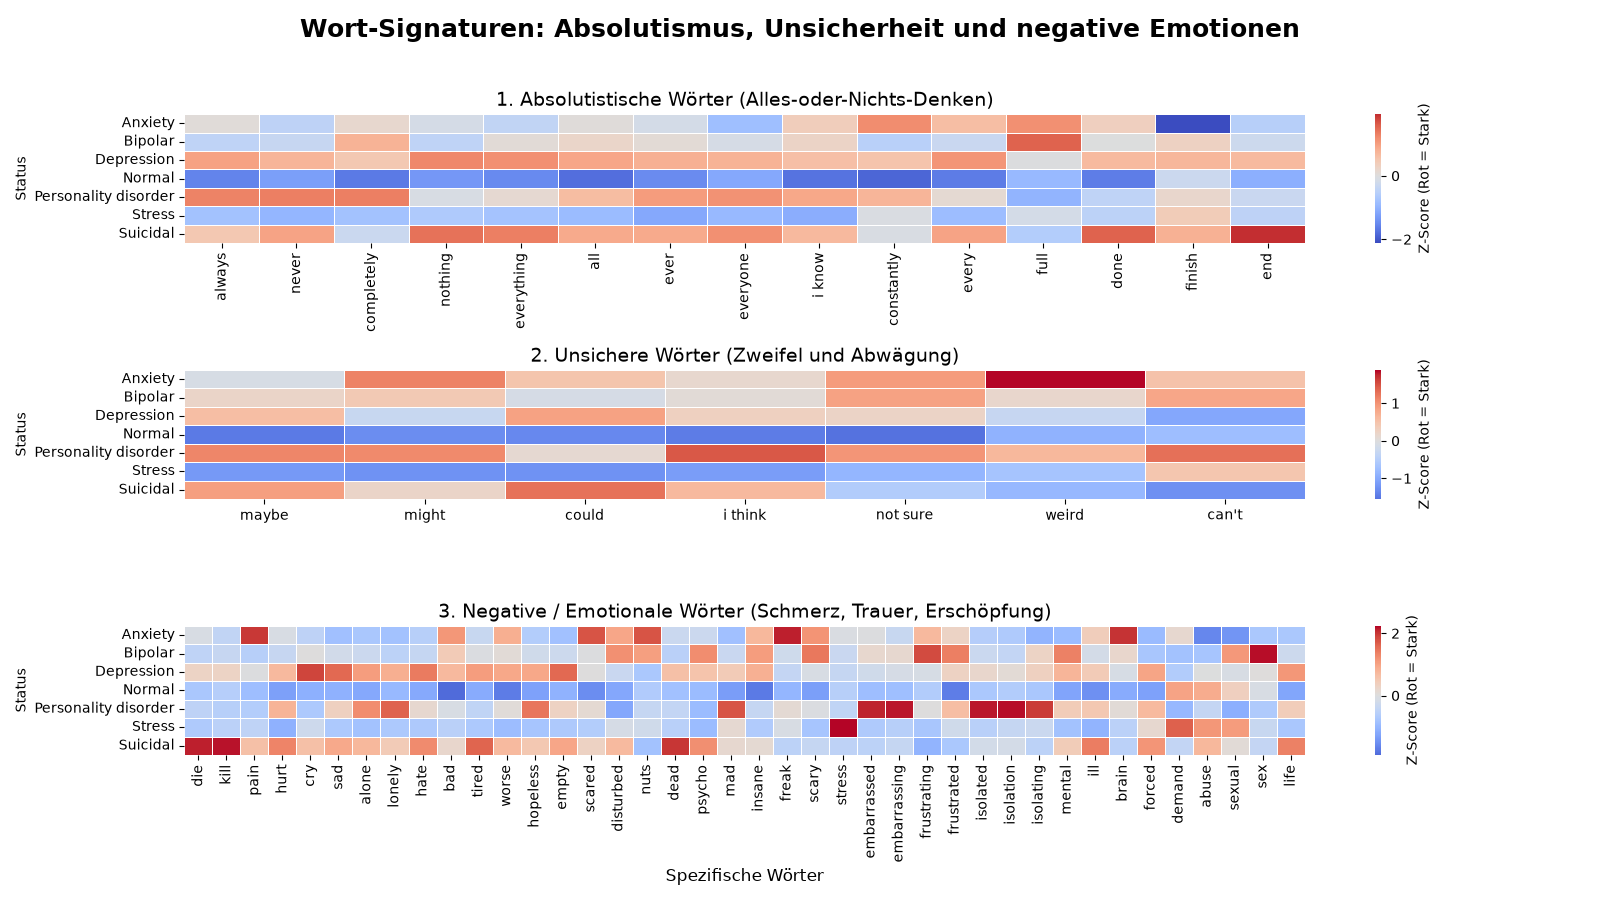
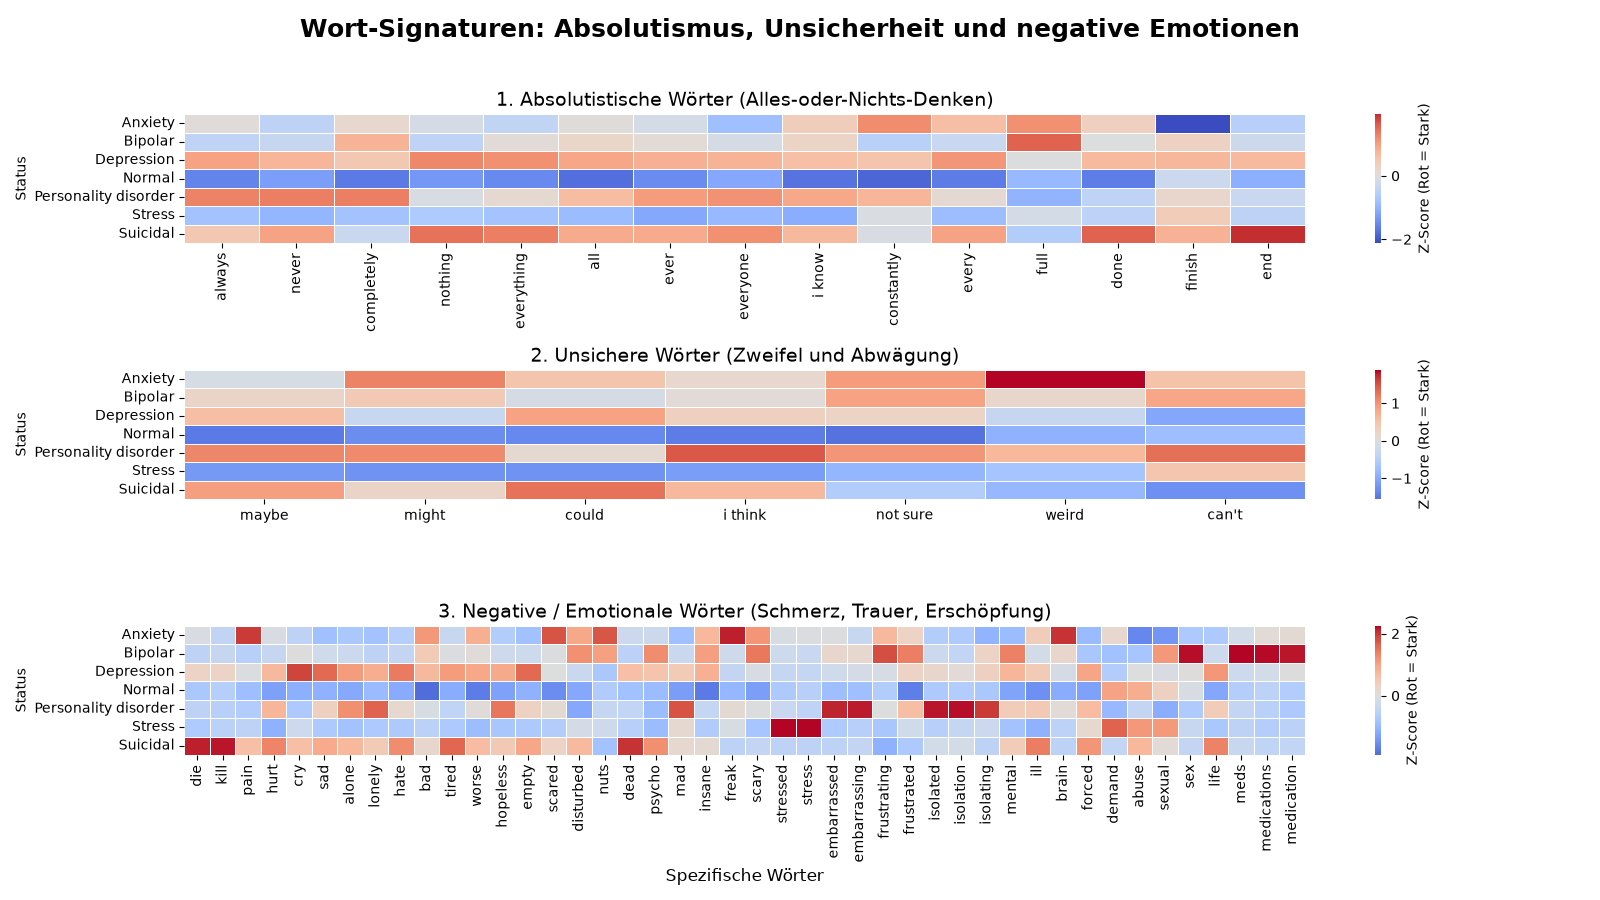
Add word frequency data for mental health-related terms in JSON format; added sleepwords as feature and improved code and old features

Changed region(s): [[0.125, 0.6844, 0.8125, 0.9644]]

diff --git a/Klassifikation_Modell_Training.py b/Klassifikation_Modell_Training.py
@@ -1,6 +1,6 @@
 import pandas as pd
 import numpy as np
-from sklearn.model_selection import train_test_split
+#from sklearn.model_selection import train_test_split
 from sklearn.preprocessing import StandardScaler
 from sklearn.linear_model import LogisticRegression
 from sklearn.svm import SVC
@@ -84,19 +84,19 @@ print(classification_report(y_test, y_pred_lr))
 # ============================================================
 # MODELL 2: SVM
 # ============================================================
-model_svm = SVC(kernel="rbf", random_state=42)
-model_svm.fit(X_train_combined, y_train)
-y_pred_svm = model_svm.predict(X_test_combined)
+# model_svm = SVC(kernel="rbf", random_state=42)
+# model_svm.fit(X_train_combined, y_train)
+# y_pred_svm = model_svm.predict(X_test_combined)
 
-print("===== SVM =====")
-print(classification_report(y_test, y_pred_svm))
+# print("===== SVM =====")
+# print(classification_report(y_test, y_pred_svm))
 
 # ============================================================
 # MODELL 3: RANDOM FOREST
 # ============================================================
 from sklearn.ensemble import RandomForestClassifier
 
-model_rf = RandomForestClassifier(n_estimators=100, random_state=42)
+model_rf = RandomForestClassifier(n_estimators=100, random_state=42,n_jobs=-1)
 model_rf.fit(X_train_combined, y_train)
 y_pred_rf = model_rf.predict(X_test_combined)
 
@@ -108,7 +108,7 @@ print(classification_report(y_test, y_pred_rf))
 # ============================================================
 status_labels = sorted(df0['status'].unique())
 
-fig, axes = plt.subplots(1, 3, figsize=(20, 6))
+fig, axes = plt.subplots(1, 2, figsize=(20, 6))
 
 sns.heatmap(confusion_matrix(y_test, y_pred_lr, labels=status_labels), annot=True, fmt="d",
             ax=axes[0], cmap="Blues", xticklabels=status_labels, yticklabels=status_labels)
@@ -117,19 +117,19 @@ axes[0].set_xlabel("Vorhergesagt")
 axes[0].set_ylabel("Tatsächlich")
 axes[0].tick_params(axis='x', rotation=45)
 
-sns.heatmap(confusion_matrix(y_test, y_pred_svm, labels=status_labels), annot=True, fmt="d",
+# sns.heatmap(confusion_matrix(y_test, y_pred_svm, labels=status_labels), annot=True, fmt="d",
+#             ax=axes[1], cmap="Blues", xticklabels=status_labels, yticklabels=status_labels)
+# axes[1].set_title("SVM")
+# axes[1].set_xlabel("Vorhergesagt")
+# axes[1].set_ylabel("Tatsächlich")
+# axes[1].tick_params(axis='x', rotation=45)
+
+sns.heatmap(confusion_matrix(y_test, y_pred_rf, labels=status_labels), annot=True, fmt="d",
             ax=axes[1], cmap="Blues", xticklabels=status_labels, yticklabels=status_labels)
-axes[1].set_title("SVM")
+axes[1].set_title("Random Forest")
 axes[1].set_xlabel("Vorhergesagt")
 axes[1].set_ylabel("Tatsächlich")
 axes[1].tick_params(axis='x', rotation=45)
-
-sns.heatmap(confusion_matrix(y_test, y_pred_rf, labels=status_labels), annot=True, fmt="d",
-            ax=axes[2], cmap="Blues", xticklabels=status_labels, yticklabels=status_labels)
-axes[2].set_title("Random Forest")
-axes[2].set_xlabel("Vorhergesagt")
-axes[2].set_ylabel("Tatsächlich")
-axes[2].tick_params(axis='x', rotation=45)
 
 plt.tight_layout()
 plt.savefig("model_comparison_confusion_matrix.png")

diff --git a/explorativ_data_analysis_copy.py b/explorativ_data_analysis_copy.py
@@ -246,11 +246,16 @@ def expl_data(df0 : pd.DataFrame):
 # ----------------------------------------------------------------------------------------------------
 
 
-def absolute_uncertain(df0 : pd.DataFrame):
+def absolute_uncertain(df0 : pd.DataFrame, statement_len_filter = 0):
+    """
+    absolutist uncertain und negative wörter werden pro statement gezählt und als durchschnitt pro Gruppe ausgegeben und als Tabelle ausgegeben.
+    \nstatement_len_filter sortiert alle statements aus, deren wörter länge kleiner als der übergebene int ist. (Default = 0)
+    \nreturnt ein dict.
+    """
     path = os.getcwd()
     output_path = os.path.join(path, "Output")
     os.chdir(output_path)
-    min_statement_len = 50 #!!!!ACHTUNG aktuell werden nur statements mit dieser Anzahl genommen und alle anderen aussortiert!!!!
+    min_statement_len = statement_len_filter #!!!!ACHTUNG aktuell werden nur statements mit dieser Anzahl genommen und alle anderen aussortiert!!!!
     df0['word_count'] = df0["statement"].str.split().str.len()
     words_over = df0['word_count'] > min_statement_len
     df0 = df0[words_over]
@@ -331,10 +336,10 @@ def absolute_uncertain(df0 : pd.DataFrame):
                         "weird","can't"]
     negative_words = ["die", "kill", "pain", "hurt", "cry", "sad", "alone", "lonely", "hate",
                        "bad", "tired", "worse", "hopeless", "empty", "scared","disturbed","nuts",
-                       "dead","psycho","mad","insane","freak","scary","stress","embarrassed","embarrassing",
+                       "dead","psycho","mad","insane","freak","scary","stressed","stress","embarrassed","embarrassing",
                        "frustrating","frustrated","isolated","isolation","isolating","mental","ill",
-                        "brain","forced","demand","abuse","sexual","sex","life"]
-
+                        "brain","forced","demand","abuse","sexual","sex","life","meds","medications","medication"]
+    
     # Hilfsfunktion: Zählt die Wörter einer Liste, bildet den Durchschnitt und berechnet den Z-Score
     def get_z_score_df(word_list):
         counts = {}
@@ -343,7 +348,7 @@ def absolute_uncertain(df0 : pd.DataFrame):
             counts[word] = df0['statement'].str.count(pattern).groupby(df0['status']).mean().to_dict()
         
         df = pd.DataFrame(counts)
-        print(df)
+        df.to_json("word_frequency.json")
         # Z-Score Standardisierung. .fillna(0) verhindert Fehler, falls ein Wort zufällig 0 mal vorkommt.
         df_z = ((df - df.mean()) / df.std()).fillna(0)
         return df_z
@@ -390,8 +395,11 @@ def absolute_uncertain(df0 : pd.DataFrame):
         df = pd.DataFrame(counts)
         return df
     df_abs = get_df(absolutist_words)
+    print(df_abs)
     df_unc = get_z_score_df(uncertain_words)
+    print(df_unc)
     df_neg = get_z_score_df(negative_words)
+    print(df_neg)
     df_con =  pd.concat([df_abs,df_neg,df_unc],axis=1)
     os.chdir(path)
     return df_con
@@ -401,13 +409,18 @@ def absolute_uncertain(df0 : pd.DataFrame):
 #----------------------------------------------------------------------------------------------------
 
 
-def pronouns(df0:pd.DataFrame):
+def pronouns(df0:pd.DataFrame, statement_len_filter = 0):
+    """
+    gibt die durchschnittliche vorkommens häufigkeit von verschiedenen Pronomen an und aus, sowie eine Tabelle dazu.
+    benötigt einen DataFrame als übergabe parameter.
+    \nstatement_len_filter sortiert alle statements aus, deren wörter länge kleiner als der übergebene int ist. (Default = 0)
+    """
     path = os.getcwd()
     output_path = os.path.join(path, "Output")
     os.chdir(output_path)
-    min_statement_len = 50 #!!!!ACHTUNG aktuell werden nur statements mit dieser Anzahl genommen und alle anderen aussortiert!!!!
+    min_statement_len = statement_len_filter #!!!!ACHTUNG aktuell werden nur statements mit dieser Anzahl genommen und alle anderen aussortiert!!!!
     
-    self_pronouns = r'(?i)\b(we|us|ourselves|i|me|mine|myself|my)\b'
+    self_pronouns = r'(?i)\b(we|us|ourself|ourselves|i|me|mine|myself|my)\b'
     other_pronouns = r'(?i)\b(you|your|yours|yourself|yourselves|he|she|her|hers|herself|him|his|himself|they|them|their|theirs|themselves|thyself|thine)\b'
 
 
@@ -431,7 +444,7 @@ def pronouns(df0:pd.DataFrame):
     df0['dif_pronouns'] = df0['self_pronouns_count'] - df0['other_pronouns_count']
     
 
-    self_pr = ["we", "us", "ourself", "i", "me", "mine", "myself", "my", "i'll", "we'll", "i'm"]
+    self_pr = ["we", "us", "ourself","ourselves", "i", "me", "mine", "myself", "my", "i'll", "we'll", "i'm"]
     other_pr = ["you", "your", "yours", "yourself", "she", "her", "hers", "herself", "he", "him", "his", "himself", "they", "them", "their", "themselves","themself"]
 
     counter_self = {}

diff --git a/feature_builder.py b/feature_builder.py
@@ -2,7 +2,7 @@ import pandas as pd
 import re
 
 def create_all_features(df0: pd.DataFrame) -> pd.DataFrame:
-    """Berechnet Makro-Metriken und Token-Frequenzen für jedes einzelne Ziel-Wort."""
+    """Berechnet Makro-Metriken und Token-Frequenzen für jedes einzelne Ziel-Wort um sie als einen gesammelten DataFrame weiter zu geben."""
     
     # 1. Wortanzahl (Verhindert Division durch 0, indem 0 zu 1 wird)
     df0['word_count'] = df0["statement"].str.split().str.len().replace(0, 1)
@@ -17,6 +17,11 @@ def create_all_features(df0: pd.DataFrame) -> pd.DataFrame:
     past_words = r'(?i)\b(was|were|had|did|been|could|said|went|ago|last|got|wanted|used|liked)\b'
     future_words = r"(?i)\b(will|shall|going to|might|worry|worried|anxious|'ll)\b"
     
+    # Schlaf-bezogene Wörter (Feature von Sofiia)
+    df0['sleep_words'] = df0['statement'].str.lower().str.count(
+        r'\bsleep\b|\binsomnia\b|\bnight\b|\btired\b|\bawake\b'
+    )
+
     df0['self_pronouns_count'] = df0["statement"].str.count(self_pronouns)
     df0['other_pronouns_count'] = df0["statement"].str.count(other_pronouns)
     df0['all_pronouns_count'] = df0['self_pronouns_count'] + df0['other_pronouns_count']
@@ -38,14 +43,15 @@ def create_all_features(df0: pd.DataFrame) -> pd.DataFrame:
     df0['question_marks_count'] = df0["statement"].str.count(r'\?')
     df0['ellipses_count'] = df0["statement"].str.count(r'\.\.\.')
     df0['exclamation_marks_count'] = df0["statement"].str.count(r'\!')
-    
+    print(df0.head())
+    df0.info()
     self_pr_list = ["we", "us", "ourself", "i", "me", "mine", "myself", "my", "i'll", "we'll", "i'm"]
     other_pr_list = ["you", "your", "yours", "yourself", "yourselves", "he", "she", "her", "hers", "herself", "him", "his", "himself", "they", "them", "their", "their's", "themselves"]
     
   
     absolutist_words = ["always", "never", "completely", "nothing", "everything", "all", "ever", "everyone", "i know", "constantly", "every", "full", "done", "finish", "end"]
     uncertain_words = ["maybe", "might", "could", "i think", "not sure", "weird", "can't"]
-    negative_words = ["die", "kill", "pain", "hurt", "cry", "sad", "alone", "lonely", "hate", "bad", "tired", "worse", "hopeless", "empty", "scared", "disturbed", "nuts", "dead", "psycho", "mad", "insane", "freak", "scary", "stress", "embarrassed", "embarrassing", "frustrating", "frustrated", "isolated", "isolation", "isolating", "mental", "ill", "brain", "forced", "demand", "abuse", "sexual", "sex", "life"]
+    negative_words = ["die", "kill", "pain", "hurt", "cry", "sad", "alone", "lonely", "hate", "bad", "tired", "worse", "hopeless", "empty", "scared", "disturbed", "nuts", "dead", "psycho", "mad", "insane", "freak", "scary", "stress", "embarrassed", "embarrassing", "frustrating", "frustrated", "isolated", "isolation", "isolating", "mental", "ill", "brain", "forced", "demand", "abuse", "sexual", "sex", "life","meds","medications","medication"]
 
     all_target_words = self_pr_list + other_pr_list + absolutist_words + uncertain_words + negative_words
 
@@ -64,5 +70,5 @@ def create_all_features(df0: pd.DataFrame) -> pd.DataFrame:
     # 2. EINMALIGES JOINEN (Das löst die Fragmentierung)
     df_new_features = pd.DataFrame(new_features)
     df0 = pd.concat([df0, df_new_features], axis=1)
-    
+    df0.info()
     return df0.fillna(0), list(seen_features)

diff --git a/main.py b/main.py
@@ -12,17 +12,18 @@ os.chdir(path)
 # Explorative Daten analyse:
 def expl_data():
     """Verarbeitet die Data und returned einen Dataframe"""
-    #import explorativ_data_analysis_copy as eda
+    import explorativ_data_analysis_copy as eda
     #import data_loading as dl
     import data_clean as dc
     #import feature_corralation_test as fct
-    import feature_builder as fb
-    import Klassifikation_Modell_Training as KMT
+    #import feature_builder as fb
+    #import Klassifikation_Modell_Training as KMT
     df0 = dc.clean_data()
 
     #fct.correlation_test(eda.expl_data(df0))
     #df0, all_target_words = fb.create_all_features(df0)
     #KMT.train_testdaten_split(df0)
     #eda.pronouns(df0)
+    eda.absolute_uncertain(df0,50)
 
 expl_data()

diff --git a/aufteilung_trainings_testdaten.py b/aufteilung_trainings_testdaten.py
@@ -1,7 +1,7 @@
-from data_clean import clean_data
+# from data_clean import clean_data
 
 
-df0 = clean_data()
+# df0 = clean_data()
 from sklearn.model_selection import train_test_split
 import pandas as pd
 